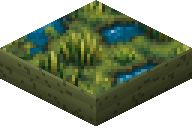
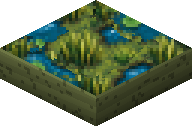
tools/m7: pair terrain variants with their base so A and B tiles meet without seams
A _b tile is cut from another window of the same raw: each tiles with itself, but a seam showed
wherever an A tile met a B (visible on snow and grass in the game). `m7.py pair` keeps the
variant's own texture inside the diamond and takes the base tile's pixels near its edges, with a
dithered cross-fade between, so A|B, B|A and B|B all meet on the base's border. Every shipped _b
tile is paired; no API cost.

Claude-Session: https://claude.ai/code/session_013rfCNM3v2NcXDTAVQhXy7X

Changed region(s): [[0.0, 0.0, 1.0, 0.75]]

diff --git a/projects/ffh2-rs/tools/m7/m7.py b/projects/ffh2-rs/tools/m7/m7.py
@@ -17,6 +17,7 @@ work/<name>/calls.jsonl. You then LOOK at the review sheet and accept one varian
   python m7.py roster-sheet --out anchors/anchor_roster_elves.png roster/units/unit_a.png roster/units/unit_b.png ...
   python m7.py scene    [--layout layouts/layout_ref.json] [--out work/scene.png]
   python m7.py spend
+  python m7.py pair --name tile_desert   (make tile_desert_b tile with tile_desert; no API cost)
   python m7.py export   (the roster -> the game's isometric renderer, crates/ffh-play/assets/app/iso)
 Add --dry-run to any generating command to print the prompt and image list without calling the API.
 Needs OPENAI_API_KEY; budget caps live in budget.json (tag root must be listed there).
@@ -462,6 +463,24 @@ def scene(a):
     print(out, s.size)
 
 
+def pair(a):
+    """Makes roster tile <name>_b (or --variant) tile with <name>: its border band becomes <name>'s
+    (lib/tiles.py pair_variant). Variants cut from other windows of a raw are each seamless only with
+    themselves; paired, the engine can mix them freely. Run once per variant, after accepting it."""
+    man_p = ROOT / "roster" / "manifest.json"
+    man = json.loads(man_p.read_text())
+    base = ROOT / "roster" / "terrain" / f"{a.name}.png"
+    var = a.variant or f"{a.name}_b"
+    vp = ROOT / "roster" / "terrain" / f"{var}.png"
+    if man.get(var, {}).get("paired_with"):
+        raise SystemExit(f"{var} is already paired with {man[var]['paired_with']}; re-accept it first")
+    px = man.get(var, {}).get("p") or man.get(a.name, {}).get("p") or 3
+    n = tiles.pair_variant(base, vp, vp, p=int(px))
+    man.setdefault(var, {})["paired_with"] = a.name
+    man_p.write_text(json.dumps(man, indent=1))
+    print(json.dumps({"paired": var, "with": a.name, "own_px": n, "p": px}))
+
+
 GAME_ISO = ROOT.parent.parent / "crates" / "ffh-play" / "assets" / "app" / "iso"
 
 
@@ -540,6 +559,8 @@ def main():
     p = sub.add_parser("scene"); p.add_argument("--layout", default="layouts/layout_ref.json")
     p.add_argument("--out", default="work/scene.png"); p.add_argument("--extra-assets", nargs="*", default=[])
     sub.add_parser("spend")
+    p = sub.add_parser("pair"); p.add_argument("--name", required=True, help="the base tile, e.g. tile_desert")
+    p.add_argument("--variant", help="default: <name>_b")
     p = sub.add_parser("export"); p.add_argument("--out", help="default: the game's crates/ffh-play/assets/app/iso")
     a = ap.parse_args()
 
@@ -557,6 +578,8 @@ def main():
         roster_sheet(a)
     elif a.cmd == "scene":
         scene(a)
+    elif a.cmd == "pair":
+        pair(a)
     elif a.cmd == "export":
         export(a)
     elif a.cmd == "spend":

diff --git a/projects/ffh2-rs/tools/m7/lib/tiles.py b/projects/ffh2-rs/tools/m7/lib/tiles.py
@@ -190,6 +190,24 @@ def overlay_path(out):
     return out.with_name(out.stem + ".ovl.png")
 
 
+def pair_variant(a_png, b_png, out, p=3, inner=0.5, outer=0.78, seed=5):
+    """Variant b made to tile with its base a: b keeps its own top face inside, and takes a's pixels near the
+    diamond's edges (a dithered cross-fade, p-px blocks, between `inner` and `outer` of the way from the centre
+    to the edge), skirt included. a tiles with itself, so a|b, b|a and b|b neighbours all meet on a's border."""
+    A = np.asarray(Image.open(a_png).convert("RGBA"))
+    B = np.asarray(Image.open(b_png).convert("RGBA"))
+    ys, xs = np.mgrid[0:128, 0:192]
+    d = np.abs(xs + 0.5 - 96) / 96 + np.abs(ys + 0.5 - 48) / 48
+    w = np.clip((d - inner) / (outer - inner), 0, 1)
+    blocks = (-(-128 // p), -(-192 // p))
+    r = np.repeat(np.repeat(smooth_noise(blocks, 1.0, seed), p, 0), p, 1)[:128, :192]
+    take_b = (dmask() > 0) & (r >= w)
+    o = A.copy()
+    o[take_b] = B[take_b]
+    Image.fromarray(o, "RGBA").save(out)
+    return int(take_b.sum())
+
+
 def lift_shadow(inp, out, lift=6, dx=4, dy=3, alpha=0.35, colour=(12, 40, 10)):
     """Lift a feature `lift` px above its anchor and put a dark silhouette copy offset (dx, dy) under it."""
     im = Image.open(inp).convert("RGBA")

diff --git a/projects/ffh2-rs/tools/m7/README.md b/projects/ffh2-rs/tools/m7/README.md
@@ -52,6 +52,8 @@ draws). Changes made here since the package arrived:
   `m7.py`): without it the model drew walled footprints at about 1.4:1 (base cover 0.60-0.71).
 - `accept` keeps the sprite's own `size` in the manifest (the image-generation size is
   `gen_size`; it used to overwrite `size`).
+- **`pair`** makes a terrain variant tile seamlessly with its base (see Terrain a); every shipped
+  `_b` tile is paired.
 - `budget.json` caps this folder's spend; `spend.jsonl` is committed, so the caps count every call
   made for the game so far.
 
@@ -294,6 +296,11 @@ python m7.py retile --name tile_desert --seed 2 --cx 0.4 --cy 0.6
 python m7.py accept --name tile_desert --variant 1 --as tile_desert_b
 ```
 Alternatively, accept another generated variant `--as tile_desert_c`.
+
+Variants cut from other windows tile with themselves but **not with each other**: a seam shows
+wherever an A tile meets a B (worst on snow). After accepting a variant, run
+`python m7.py pair --name tile_desert` (or `--variant tile_desert_c`): the variant keeps its own
+texture inside and takes the base tile's pixels near the edges, so A and B mix without seams.
 
 ### b) Tile = base terrain + an object: the inset path
 Use this for farms, hills, pasture, quarry, oasis, cottage plots, flood plains and other improvements.

diff --git a/projects/ffh2-rs/docs/ISO.md b/projects/ffh2-rs/docs/ISO.md
@@ -78,7 +78,8 @@ picks the figure's plot.
 The tables are at the top of `iso.js`; every lookup has fallbacks, so a missing sprite never
 leaves a hole.
 
-- **Terrain:** one tile per base terrain, its `_b` variant on about half the plots (a stable hash);
+- **Terrain:** one tile per base terrain, its `_b` variant on about half the plots (a stable hash;
+  the variants are `pair`ed with their base, so they meet without seams);
   coast and shallows use `tile_water`. **Hills** are an overlay chosen by the terrain: green
   (`ovl_hills`), dry (`ovl_hills_dry`: plains, desert, hell terrains) or snowy (`ovl_hills_snow`:
   tundra, snow). **Peaks** are `feat_mountain` (`feat_mountain_hell` on hell terrains); a volcano
